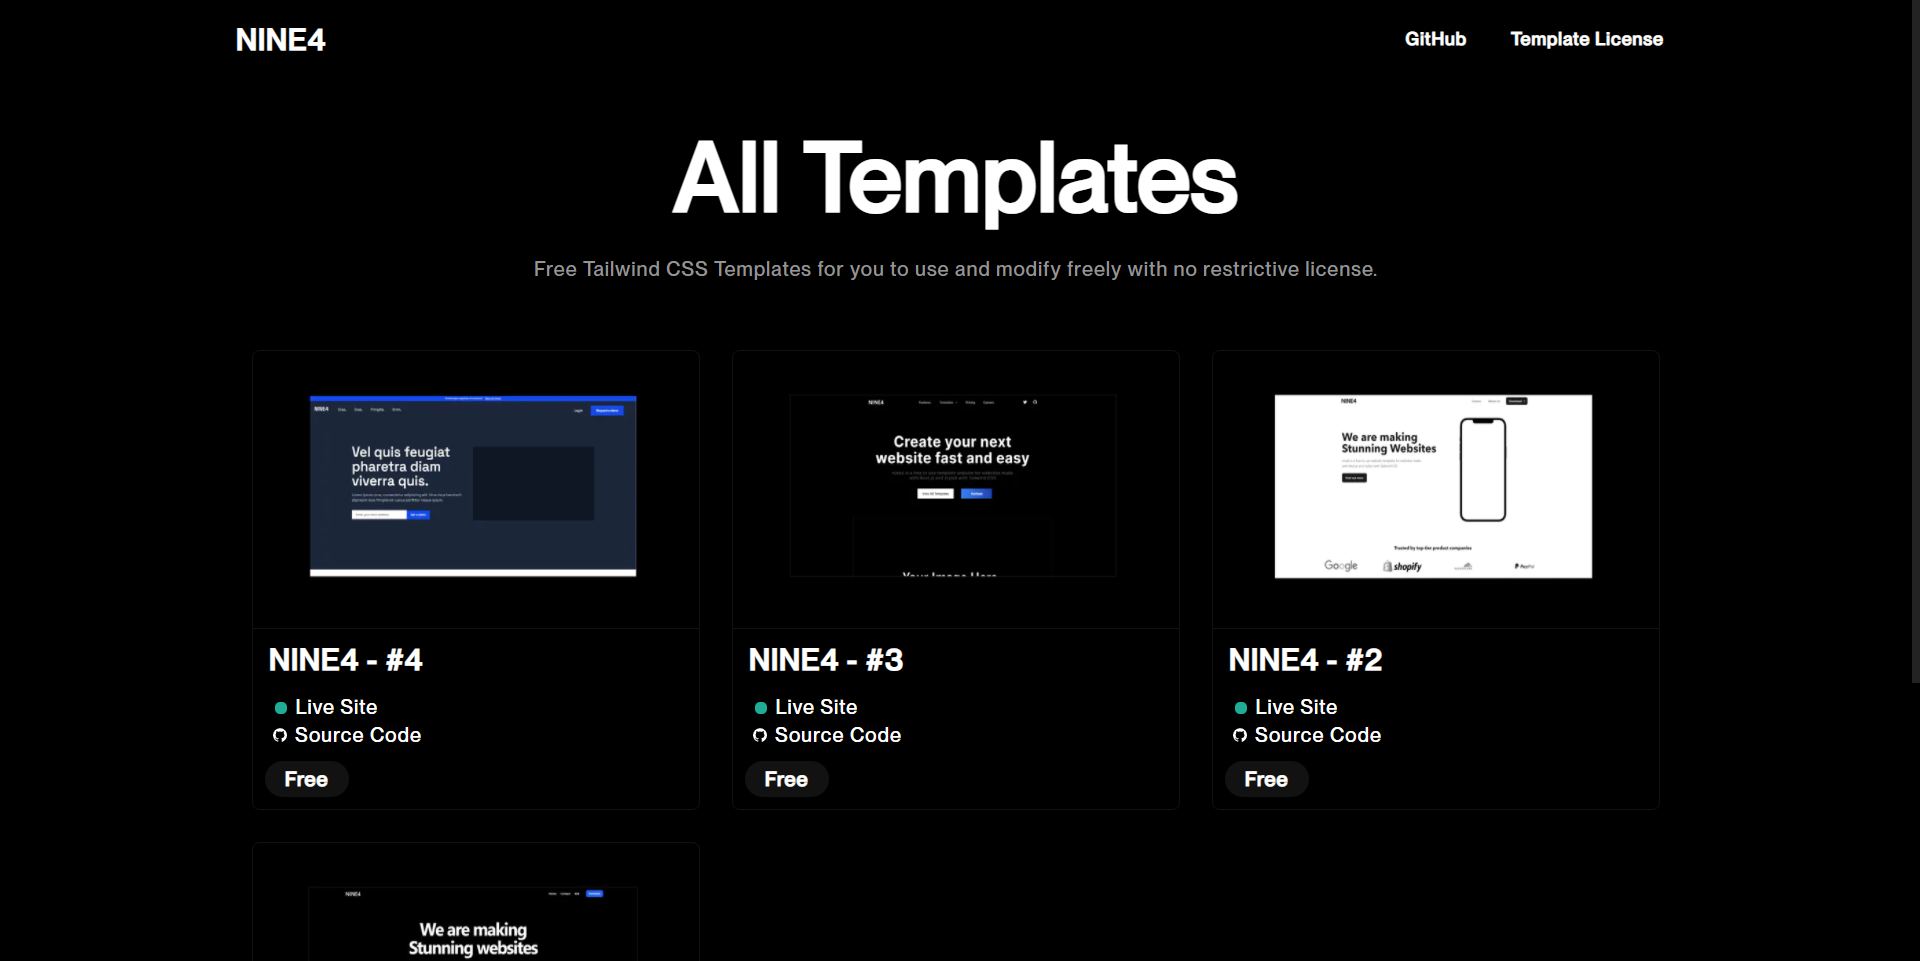
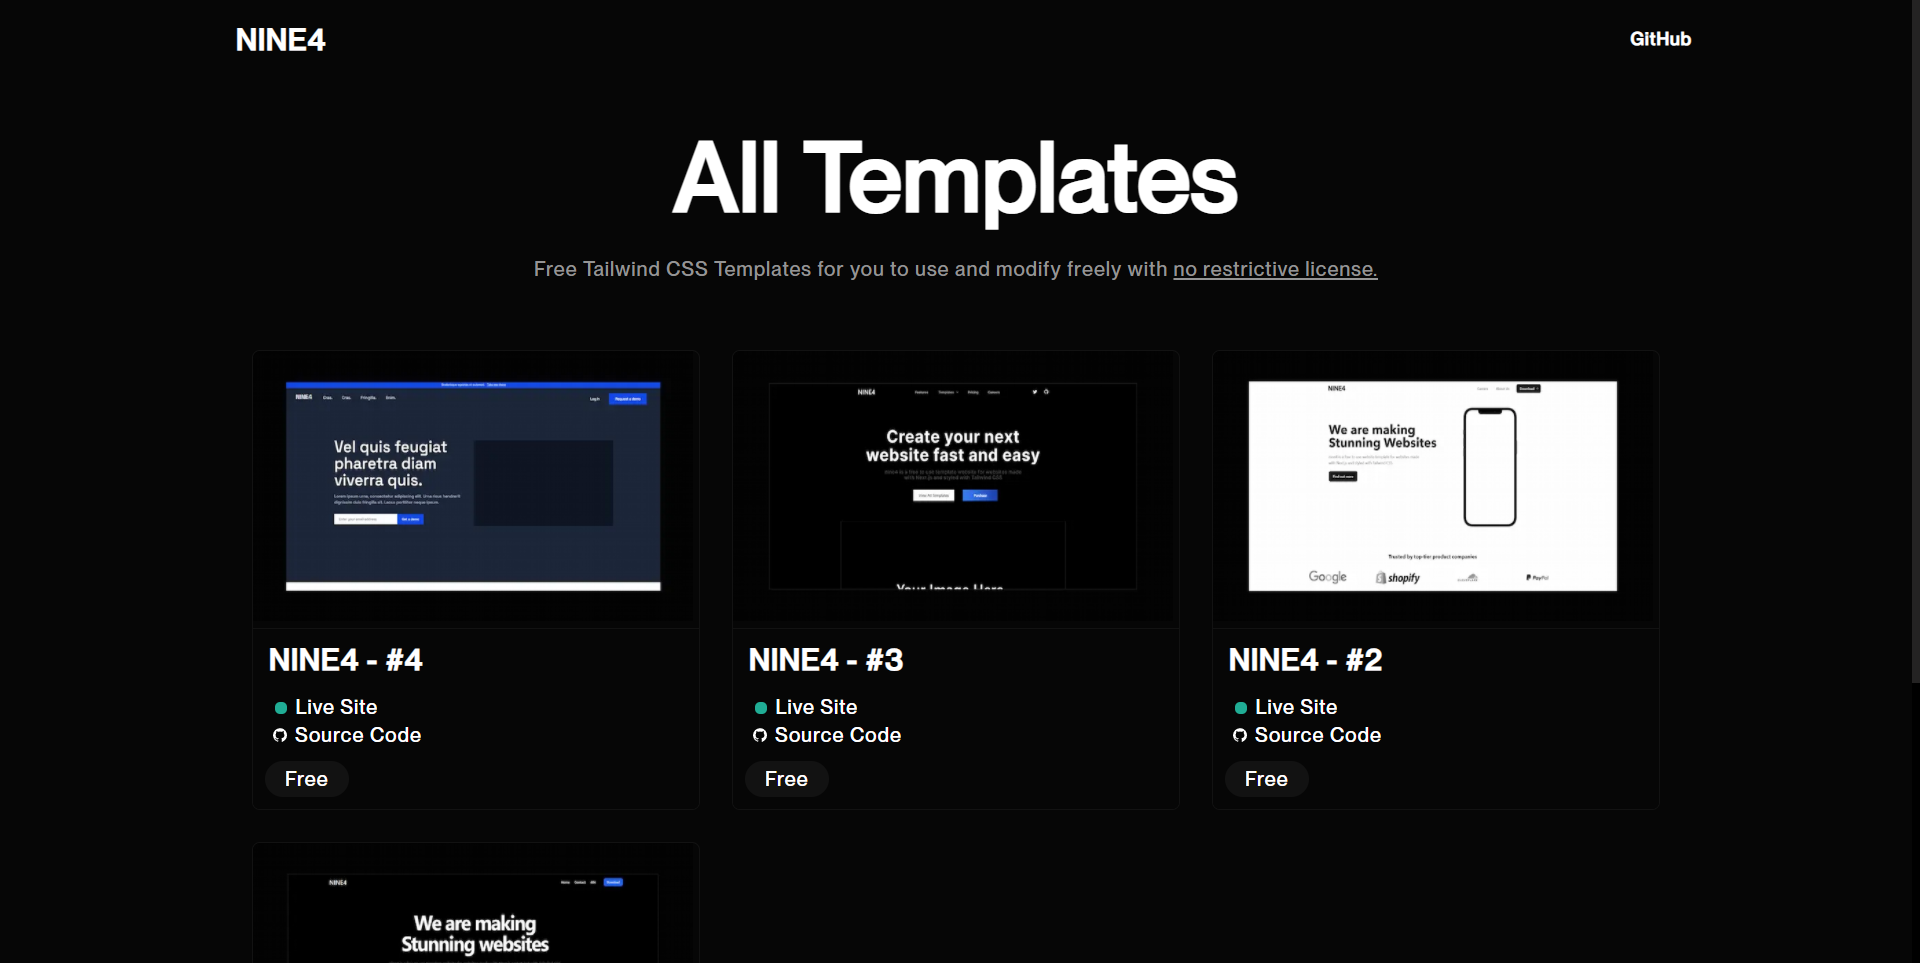
done(landing page): changed design

diff --git a/components/Main.js b/components/Main.js
@@ -10,8 +10,10 @@ export default function Main() {
           </h1>
           <br></br>
           <p className="mx-auto text-xl font-normal leading-relaxed fs521 lg:w-2/3">
-            Free Tailwind CSS Templates for you to use and modify freely with no
-            restrictive license.
+            Free Tailwind CSS Templates for you to use and modify freely with{" "}
+            <a href="/license" className="underline underline-offset-1">
+              no restrictive license.
+            </a>
           </p>
         </div>
         <div className="container my-12 mx-auto px-4 md:px-12">
@@ -72,7 +74,7 @@ export default function Main() {
                         Source Code
                       </a>
                     </div>
-                    <div className="inline-flex px-5 py-1 mt-3 font-semibold text-white bg-gray-800 rounded-full toracking-wide">
+                    <div className="inline-flex px-5 py-1 mt-3 font-medium text-white bg-gray-800 rounded-full toracking-wide">
                       Free
                     </div>
                   </div>
@@ -135,7 +137,7 @@ export default function Main() {
                         Source Code
                       </a>
                     </div>
-                    <div className="inline-flex px-5 py-1 mt-3 font-semibold text-white bg-gray-800 rounded-full toracking-wide">
+                    <div className="inline-flex px-5 py-1 mt-3 font-medium text-white bg-gray-800 rounded-full toracking-wide">
                       Free
                     </div>
                   </div>
@@ -198,7 +200,7 @@ export default function Main() {
                         Source Code
                       </a>
                     </div>
-                    <div className="inline-flex px-5 py-1 mt-3 font-semibold text-white bg-gray-800 rounded-full toracking-wide">
+                    <div className="inline-flex px-5 py-1 mt-3 font-medium text-white bg-gray-800 rounded-full toracking-wide">
                       Free
                     </div>
                   </div>
@@ -261,7 +263,7 @@ export default function Main() {
                         Source Code
                       </a>
                     </div>
-                    <div className="inline-flex px-5 py-1 mt-3 font-semibold text-white bg-gray-800 rounded-full toracking-wide">
+                    <div className="inline-flex px-5 py-1 mt-3 font-medium text-white bg-gray-800 rounded-full toracking-wide">
                       Free
                     </div>
                   </div>

diff --git a/components/Header.js b/components/Header.js
@@ -55,12 +55,6 @@ export default function Container() {
             >
               GitHub
             </a>
-            <a
-              className="py-2 mt-2 text-lg font-semibold text-white transition duration-500 ease-in-out transform bg-transparent rounded-lg px-7 md:mt-0 md:ml-4"
-              href="/license"
-            >
-              Template License
-            </a>
           </nav>
         </div>
       </div>
